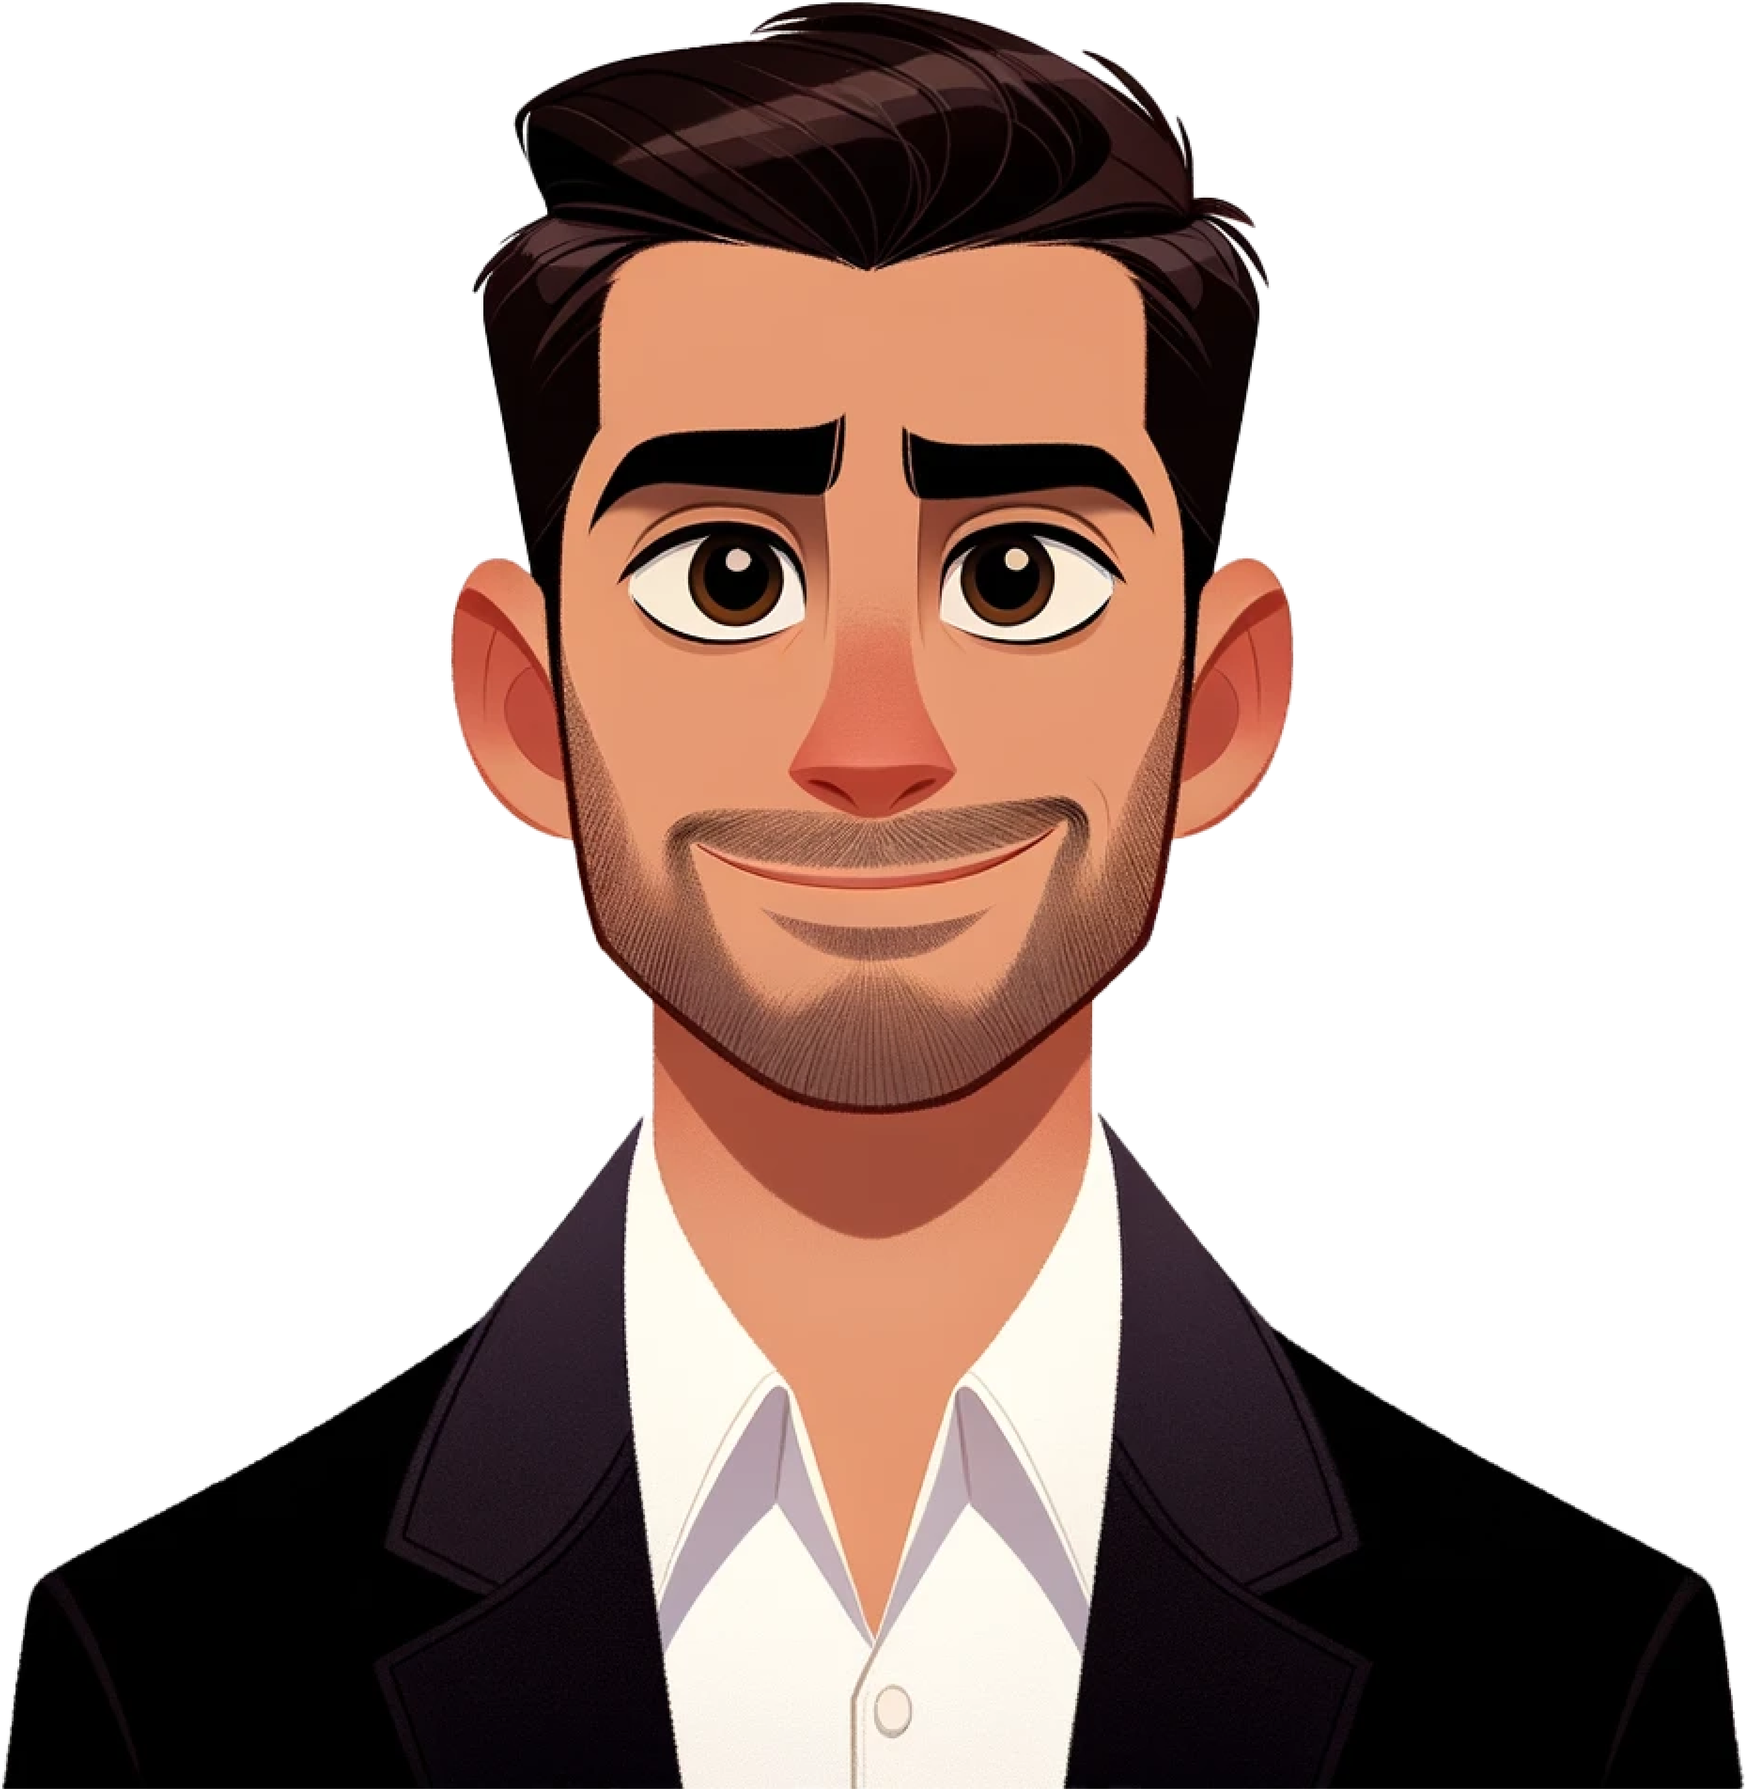
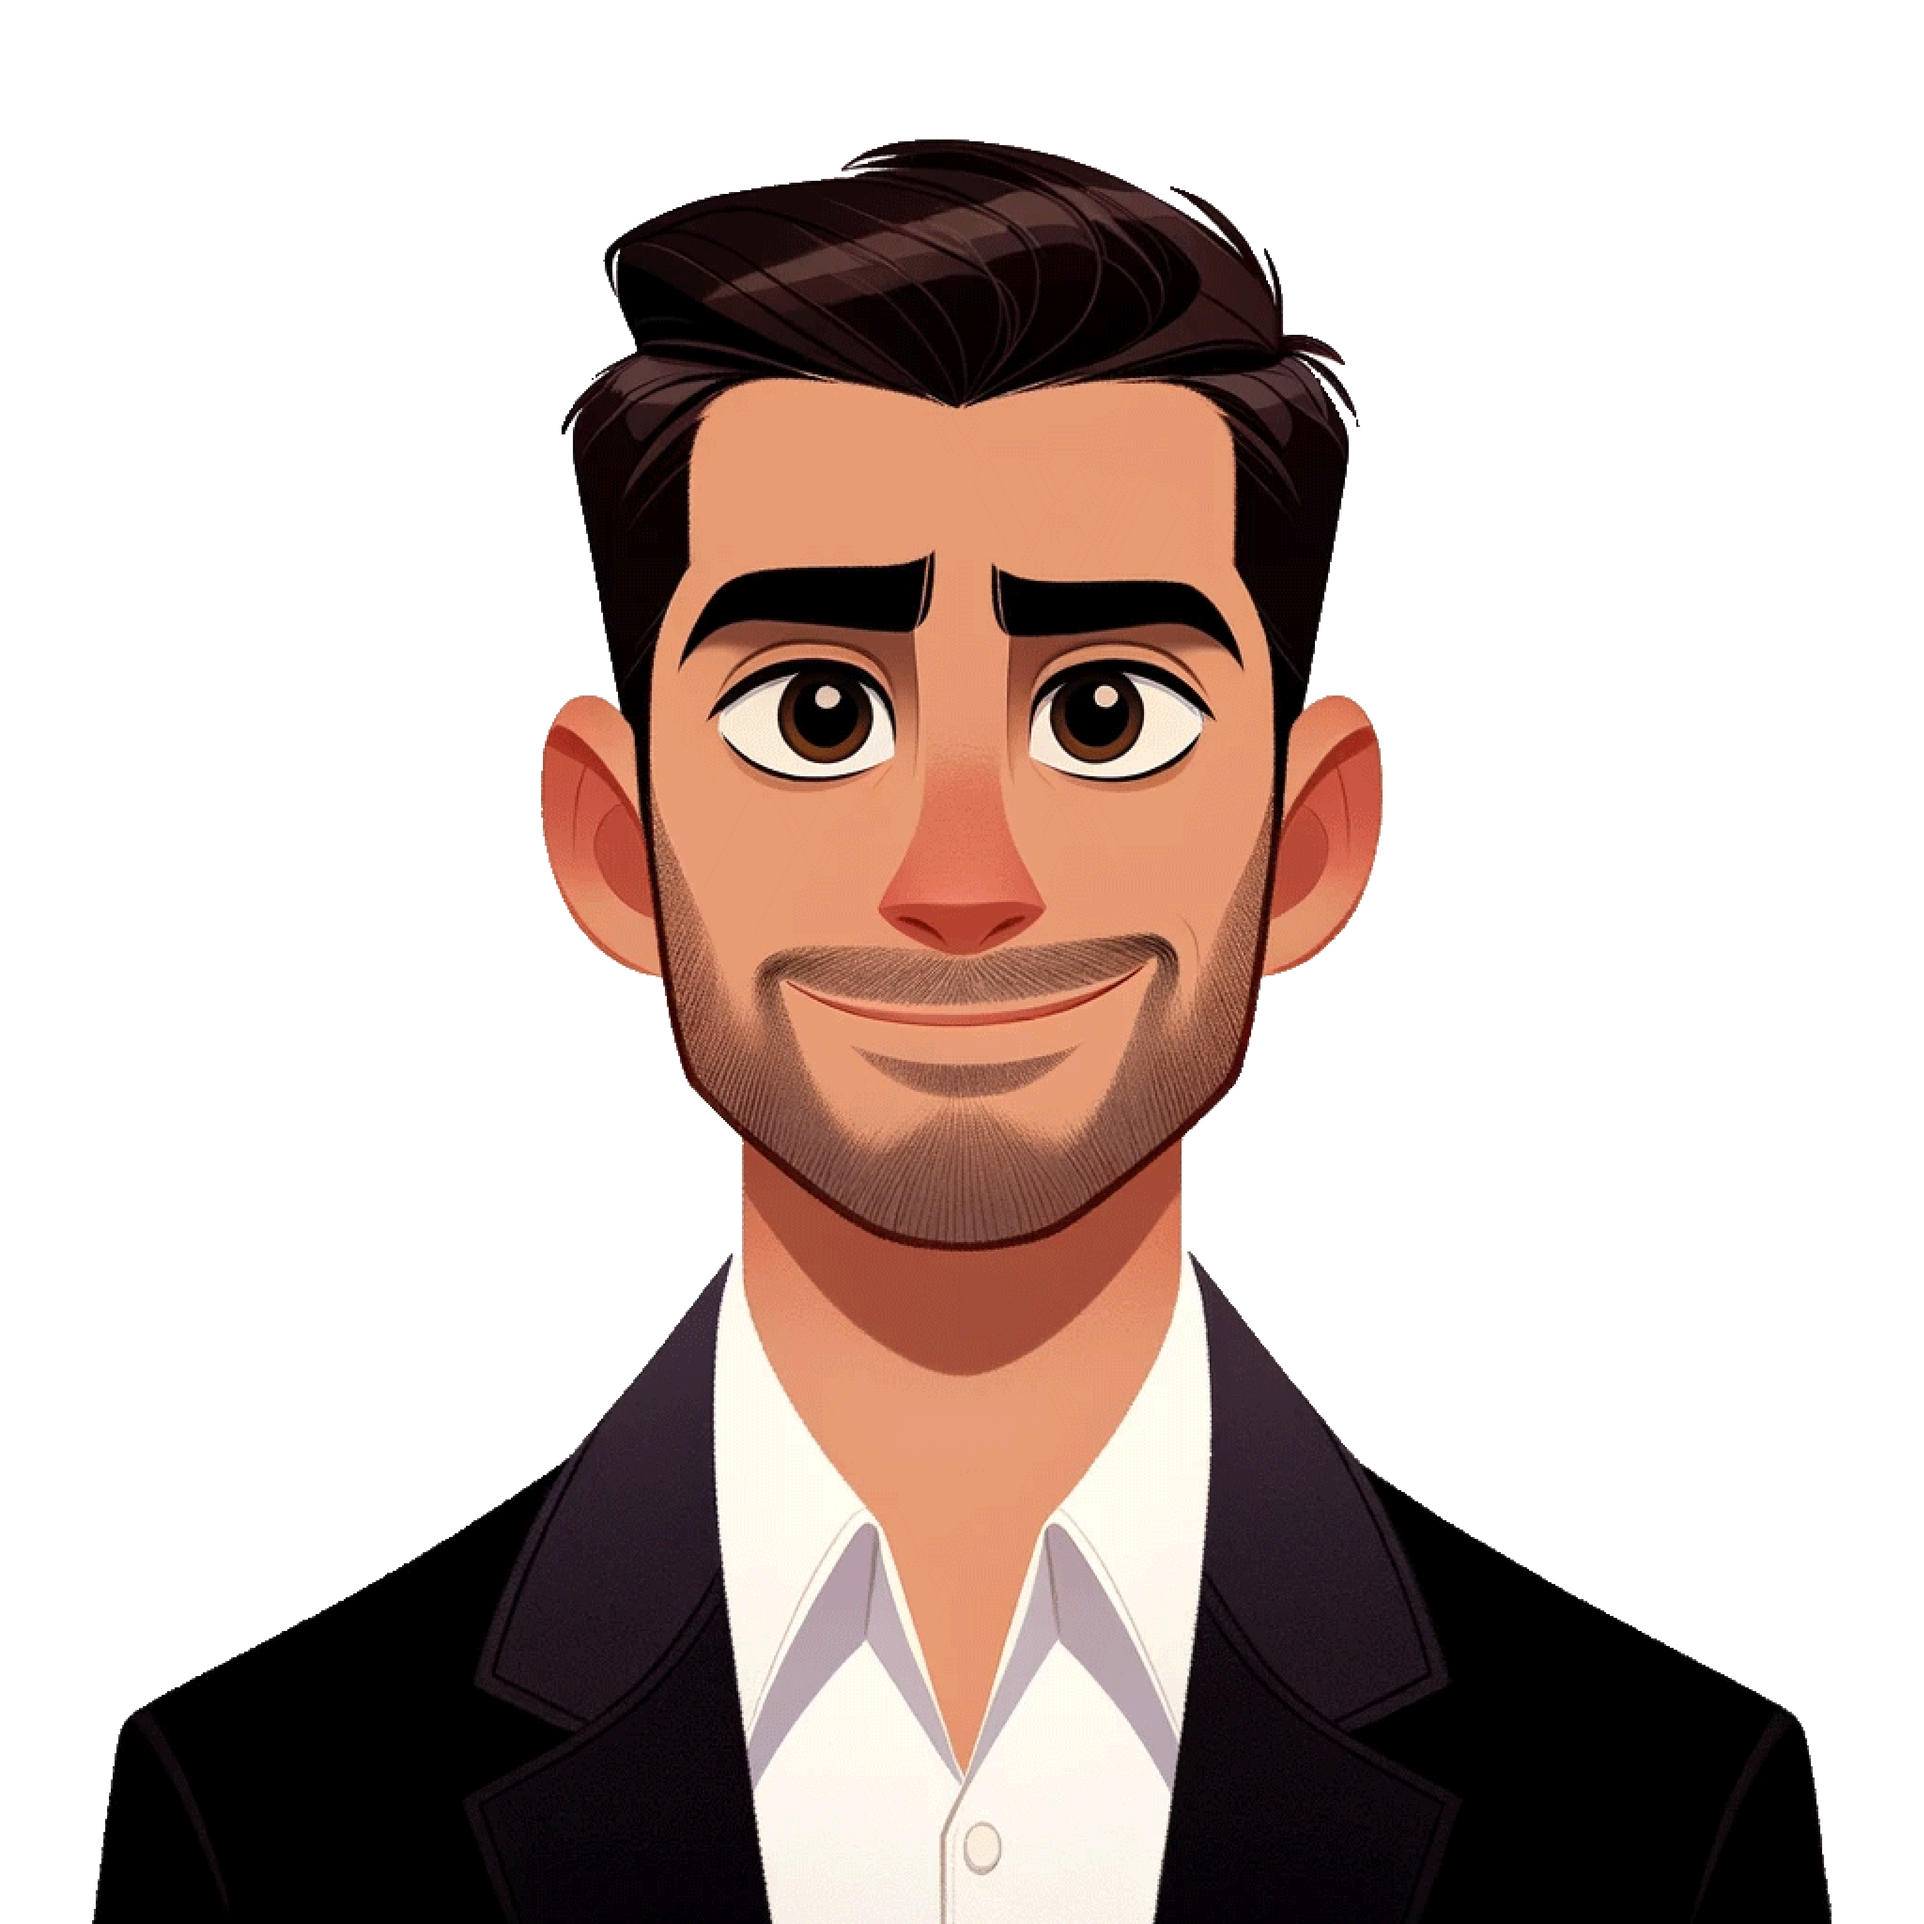
feat: ✨ End Design Home!

Changed region(s): [[0.0, 0.0, 0.9987, 1.0]]

diff --git a/components/UI/ProfileCard/AvatarProfile.vue b/components/UI/ProfileCard/AvatarProfile.vue
@@ -1,11 +1,65 @@
-<script setup lang="ts"></script>
+<script setup>
+import "atropos/css";
+import Atropos from "atropos";
+
+onMounted(() => {
+    Atropos({
+        el: ".my-atropos",
+        shadow: false,
+    });
+});
+</script>
 
 <template>
-    <div
-        class="flex h-40 w-40 items-center justify-center overflow-hidden rounded-full"
-    >
-        <img src="./Avatar.png" alt="Jacob Sarmiento" class="rounded-full" />
+    <div class="atropos my-atropos">
+        <!-- scale container (required) -->
+        <div class="atropos-scale">
+            <!-- rotate container (required) -->
+            <div class="atropos-rotate">
+                <!-- inner container (required) -->
+                <div class="atropos-inner overflow-hidden rounded-full">
+                    <!-- put your custom content here -->
+                    <div
+                        class="relative h-60 w-60 rounded-full bg-gradient-to-bl from-neutral to-base-content"
+                    >
+                        <div
+                            class="absolute inset-[11px] h-[90%] w-[90%] rounded-full bg-base-100 drop-shadow-md"
+                        >
+                            <img
+                                src="./Avatar.png"
+                                alt="Jacob Sarmiento"
+                                class="h-full w-full rounded-full"
+                            />
+                        </div>
+                    </div>
+                </div>
+            </div>
+        </div>
     </div>
 </template>
 
-<style scoped></style>
+<style scoped>
+.my-atropos {
+    width: 15rem;
+    height: 15rem;
+    animation: pulse 2s infinite;
+    border-radius: 100%;
+    cursor: pointer;
+}
+
+.my-atropos:hover {
+    animation: none;
+}
+
+@keyframes pulse {
+    0% {
+        filter: drop-shadow(0 0 0 rgba(128, 128, 128, 0.9));
+    }
+    50% {
+        filter: drop-shadow(0 0 10px rgba(128, 128, 128, 0.7));
+    }
+    100% {
+        filter: drop-shadow(0 0 0 rgba(128, 128, 128, 0));
+    }
+}
+</style>

diff --git a/components/UI/ProfileCard/ProfileCard.vue b/components/UI/ProfileCard/ProfileCard.vue
@@ -11,19 +11,19 @@ import AvatarProfile from "~/components/UI/ProfileCard/AvatarProfile.vue";
     <section class="flex w-full flex-col items-center justify-center gap-2">
         <avatar-profile />
         <h1
-            class="text-4xl font-extrabold text-slate-800 dark:text-slate-200 md:text-8xl"
+            class="text--base-content text-brillo mt-10 text-4xl font-extrabold md:text-5xl lg:text-8xl"
         >
             Jacob Sarmiento
         </h1>
-        <div class="w-8/12">
+        <div class="w-8/12 md:w-7/12 lg:w-9/12 xl:w-8/12">
             <div class="divider my-0" />
         </div>
         <h4
-            class="text-2xl font-light text-slate-600 dark:text-slate-300 md:text-4xl"
+            class="text-2xl font-light text-base-content md:text-3xl lg:text-4xl"
         >
             {{ $t("home.jobPosition") }}
         </h4>
-        <div class="flex w-full items-center justify-center gap-4">
+        <div class="mt-4 flex w-full items-center justify-center gap-4">
             <logo-h-t-m-l class="w-8" />
             <logo-c-s-s class="w-8" />
             <logo-j-s class="w-8" />
@@ -33,4 +33,32 @@ import AvatarProfile from "~/components/UI/ProfileCard/AvatarProfile.vue";
     </section>
 </template>
 
-<style scoped></style>
+<style scoped>
+.text-brillo {
+    background: linear-gradient(
+        90deg,
+        #ff0000,
+        #ffff00,
+        #00ff00,
+        #00ffff,
+        #0000ff,
+        #ff00ff,
+        #ff0000
+    );
+    background-size: 200% auto;
+    color: #fff;
+    background-clip: text;
+    text-fill-color: transparent;
+    -webkit-background-clip: text;
+    -webkit-text-fill-color: transparent;
+    -webkit-text-stroke: 1px oklch(var(--bc));
+    text-stroke: 1px oklch(var(--bc));
+    animation: shine 5s linear infinite;
+}
+
+@keyframes shine {
+    to {
+        background-position: 200% center;
+    }
+}
+</style>

diff --git a/pages/index.vue b/pages/index.vue
@@ -12,7 +12,7 @@ useHead({
     },
 });
 
-const options = {
+const options = ref({
     background: {
         color: "transparent",
     },
@@ -20,7 +20,7 @@ const options = {
         value: -1,
     },
     particles: {
-        color: { value: "#000" },
+        color: { value: "#939387" },
         move: {
             direction: "top",
             enable: true,
@@ -52,11 +52,11 @@ const options = {
             speed: 6,
         },
     },
-};
+});
 
 const onLoad = (container: Container) => {
     container.pause();
-    setTimeout(() => container.play(), 1000);
+    setTimeout(() => container.play(), 500);
 };
 </script>
 

diff --git a/components/UI/BottomNav/BottomNav.vue b/components/UI/BottomNav/BottomNav.vue
@@ -3,7 +3,7 @@ const active = ref("home");
 </script>
 
 <template>
-    <div class="btm-nav absolute bottom-0 left-0 z-10 bg-base-100">
+    <div class="btm-nav z-10 bg-base-100">
         <button
             class="text-primary"
             :disabled="false"
